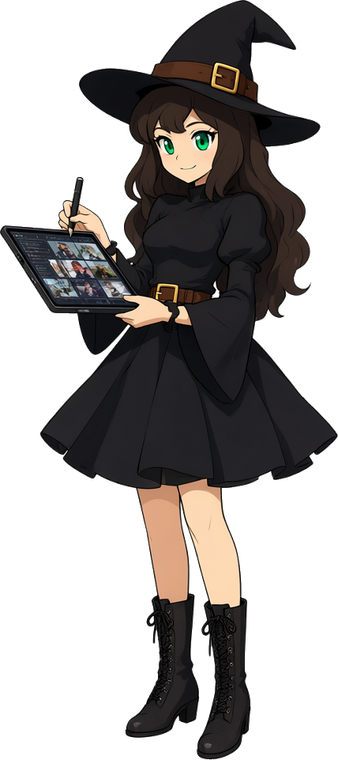
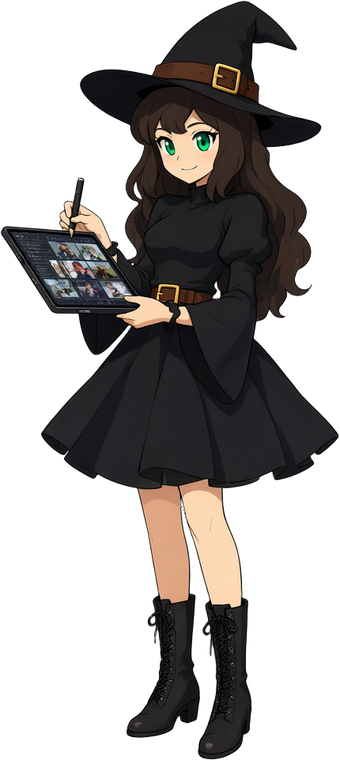
Keep the hat tip and clean the white fringe on service art
Two problems with the first cut-out pass: BiRefNet sometimes read the thin dark
tip of the hat as background, and the white-keyed edge left a pale dotted line on
the dark card.

- Alpha now comes from the model; dark pixels with very low alpha are put back
  into the silhouette, which restores the hat tip.
- Edge colour is bled from the nearest opaque pixel, so no white halo remains.
- Re-measured every PNG; the registry sizes follow.

diff --git a/src/api/assets.rs b/src/api/assets.rs
@@ -349,19 +349,19 @@ pub const SERVICE_ART: [ServiceArt; 19] = [
     ServiceArt {
         slug: "ai-assistants",
         image: include_bytes!("../../assets/services/ai-assistants.png"),
-        width: 360,
+        width: 362,
         height: 760,
     },
     ServiceArt {
         slug: "ai-automation",
         image: include_bytes!("../../assets/services/ai-automation.png"),
-        width: 531,
+        width: 533,
         height: 760,
     },
     ServiceArt {
         slug: "ai-bots",
         image: include_bytes!("../../assets/services/ai-bots.png"),
-        width: 392,
+        width: 393,
         height: 760,
     },
     ServiceArt {
@@ -373,19 +373,19 @@ pub const SERVICE_ART: [ServiceArt; 19] = [
     ServiceArt {
         slug: "ai-vision",
         image: include_bytes!("../../assets/services/ai-vision.png"),
-        width: 312,
+        width: 313,
         height: 760,
     },
     ServiceArt {
         slug: "comfyui-media",
         image: include_bytes!("../../assets/services/comfyui-media.png"),
-        width: 338,
+        width: 340,
         height: 760,
     },
     ServiceArt {
         slug: "design-figma",
         image: include_bytes!("../../assets/services/design-figma.png"),
-        width: 325,
+        width: 326,
         height: 760,
     },
     ServiceArt {
@@ -397,19 +397,19 @@ pub const SERVICE_ART: [ServiceArt; 19] = [
     ServiceArt {
         slug: "email-campaigns",
         image: include_bytes!("../../assets/services/email-campaigns.png"),
-        width: 558,
+        width: 559,
         height: 760,
     },
     ServiceArt {
         slug: "fullstack-any",
         image: include_bytes!("../../assets/services/fullstack-any.png"),
-        width: 403,
+        width: 404,
         height: 760,
     },
     ServiceArt {
         slug: "legacy-refactor",
         image: include_bytes!("../../assets/services/legacy-refactor.png"),
-        width: 399,
+        width: 400,
         height: 760,
     },
     ServiceArt {
@@ -421,43 +421,43 @@ pub const SERVICE_ART: [ServiceArt; 19] = [
     ServiceArt {
         slug: "mobile-apps",
         image: include_bytes!("../../assets/services/mobile-apps.png"),
-        width: 323,
+        width: 324,
         height: 760,
     },
     ServiceArt {
         slug: "qa-testing",
         image: include_bytes!("../../assets/services/qa-testing.png"),
-        width: 477,
+        width: 478,
         height: 760,
     },
     ServiceArt {
         slug: "small-fixes",
         image: include_bytes!("../../assets/services/small-fixes.png"),
-        width: 380,
+        width: 382,
         height: 760,
     },
     ServiceArt {
         slug: "support",
         image: include_bytes!("../../assets/services/support.png"),
-        width: 333,
+        width: 335,
         height: 760,
     },
     ServiceArt {
         slug: "sysadmin-devops",
         image: include_bytes!("../../assets/services/sysadmin-devops.png"),
-        width: 456,
+        width: 457,
         height: 760,
     },
     ServiceArt {
         slug: "voice-ai",
         image: include_bytes!("../../assets/services/voice-ai.png"),
-        width: 320,
+        width: 321,
         height: 760,
     },
     ServiceArt {
         slug: "web-any",
         image: include_bytes!("../../assets/services/web-any.png"),
-        width: 464,
+        width: 461,
         height: 760,
     },
 ];
